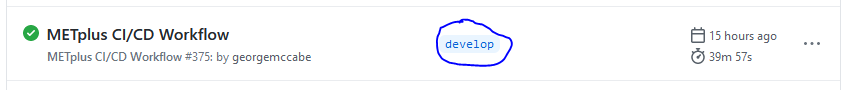
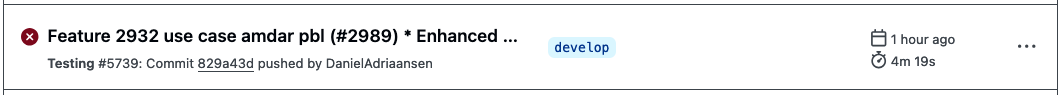
Feature #2998 main_v6.1 - updating truth data instructions (#3002)
* per #2998, update instructions for updating truth data to note that the latest develop branch run needs to finish running. also cleaned up some out-of-date info

* add note to delete the temporary branch generated for updating develop-ref

diff --git a/docs/Contributors_Guide/continuous_integration.rst b/docs/Contributors_Guide/continuous_integration.rst
@@ -169,8 +169,8 @@ that introduce new **Vulnerabilities** or **Bugs** or increase the number of
 
 .. _cg-ci-update-truth-data:
 
-Update Truth Data (update_truth.yml)
-------------------------------------
+Update Reference Branch (update_reference_branch.yml)
+-----------------------------------------------------
 
 The METplus use case test truth data includes output from use cases that is
 used to compare with new use case test results to flag any differences.
@@ -192,7 +192,11 @@ branch and "develop-ref" as the destination branch.
 This is done so that the pull request responsible for the changes in the
 truth data can be referenced to easily track where differences occurred.
 
-The **Update Truth Data** workflow is available to handle this step.
+The **Update Reference Branch** workflow is available to handle this step.
+
+.. note::
+   **IMPORTANT: The latest develop branch testing workflow that contains output differences must be completed before running these instructions.**
+
 
 * Ensure that the develop data directory has been updated to include all of the
   new input data.
@@ -200,9 +204,9 @@ The **Update Truth Data** workflow is available to handle this step.
   confirm that the steps under :ref:`update-the-develop-data-directory` have
   been completed. If this step has not been completed, then the new use case(s)
   will fail and the new output data will not be added to the truth data set.
-* Navigate to https://github.com/dtcenter/METplus/actions/workflows/update_truth.yml
+* Navigate to https://github.com/dtcenter/METplus/actions/workflows/update_reference_branch.yml
   or from the METplus GitHub page, click on the Actions tab,
-  then click on "Update Truth Data" under menu on the left.
+  then click on "Update Reference Branch" under menu on the left.
 * Click on the "Run workflow" button on the right.
 * Click on the Branch pull down and select "develop" unless you are updating
   the truth data for a bugfix on a main_vX.Y branch.
@@ -213,7 +217,7 @@ The **Update Truth Data** workflow is available to handle this step.
 * Enter a brief summary of the changes.
   Developers can navigate to the PRs for more information.
 
-.. figure:: figure/update_truth_data.png
+.. figure:: figure/update_reference_branch.png
 
 * Click the "Run workflow" button.
 * A new workflow run should appear at the top of the list and complete quickly.
@@ -229,7 +233,8 @@ The **Update Truth Data** workflow is available to handle this step.
 * Scroll to the bottom of the pull request and click "Squash and merge."
 * Click "Confirm squash and merge." It is not necessary to wait for the
   automation checks to complete for this step.
-* Monitor the Testing automation run for the develop-ref branch and ensure that
+* Click the button to delete the *update_develop_XXXXXXXX* branch.
+* Monitor the `Update Input Test Data <https://github.com/dtcenter/METplus/actions/workflows/update_input_data.yml>`_ workflow run for the develop-ref branch and ensure that
   all of the use cases run successfully and the final step named
   "Create Output Docker Data Volumes" completed successfully.
 * If any use cases fail, check that the input data has been updated following

diff --git a/docs/Contributors_Guide/add_use_case.rst b/docs/Contributors_Guide/add_use_case.rst
@@ -1309,18 +1309,22 @@ Check that the link now points to the new tarfile that was just created::
 After the Pull Request is Approved
 ==================================
   
-Merge the pull request and ensure that all tests pass
------------------------------------------------------
+Merge the pull request and review testing workflow run
+-------------------------------------------------------
 
-Merge the pull request on GitHub. Then go to the "Actions" tab and verify that
-all of the GitHub Actions tests pass for the develop branch. A green check mark
-for the latest run that lists "develop" as the branch signifies that the run
-completed successfully.
+Merge the pull request on GitHub.
+Then go to the "Actions" tab and monitor the latest develop branch run.
+This run should "fail" with a red X.
+Ensure that the only failures are in the use case that was added and
+that the failures are only in the *Run difference tests* job.
+**Any failures in a "Run Use Cases" job suggest that something went wrong.**
+A failing use case is likely due to the develop branch data not being updated.
 
 .. figure:: figure/github_actions_develop.png
 
 If the circle on the left side is yellow, then the run has not completed yet.
-If everything ran smoothly, clean up the files on the web server.
+If you have confirmed that the only failures are due to difference in new use
+case output, then follow the instructions below to update the truth data.
 
 Consider rearranging the use case groups
 ----------------------------------------
